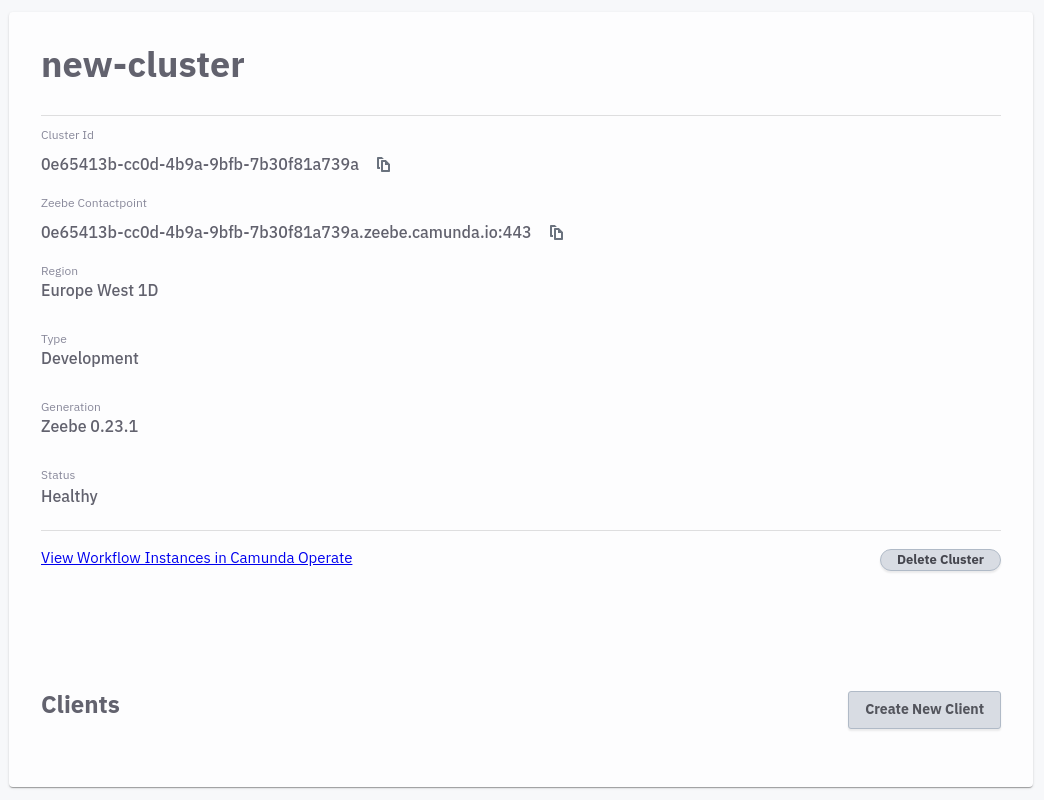
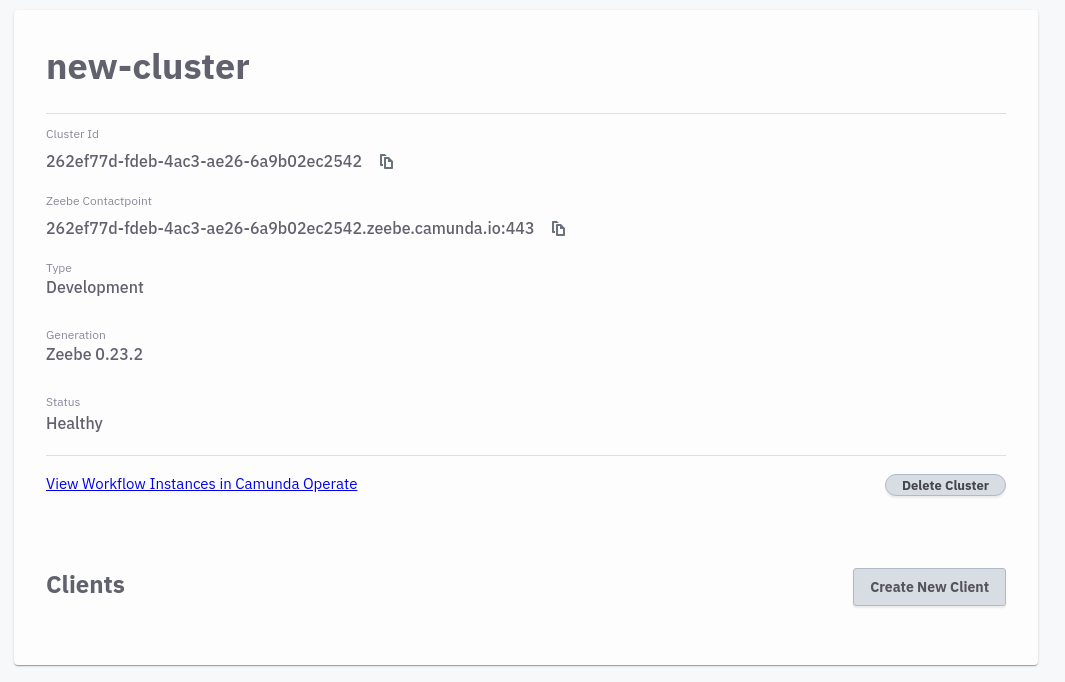
Updated screen shots, removed last traces of camunda cloud http worker (#32)
* removed last traces of http-worker

* new create client dialog

* removed region, new buttons

diff --git a/docs/gettingstarted_camunda-cloud-console.md b/docs/gettingstarted_camunda-cloud-console.md
@@ -9,11 +9,10 @@ Zeebe clusters can be created and operated via the cloud console. For each Zeebe
 
 * [Zeebe](./zeebecluster_zeebe.md)
 * [Operate](./zeebecluster_operate.md)
-* [HTTP Worker](./zeebecluster_embedded-http-worker.md)
 
 The products are always delivered in the lastest available stable version. The Zeebe version can be viewed in the cluster details.
 
-The provisioning of a Zeebe cluster takes about two minutes. As soon as a Zeebe cluster is operational, its state jumps from *Unhealthy* to *Healthy*.
+The provisioning of a Zeebe cluster takes about two minutes. As soon as a Zeebe cluster is operational, its state jumps from *Creating* to *Healthy*.
 
 To interact with Zeebe, an application must authenticate itself via OAuth. A [client](./zeebecluster_clients.md) must be created in advance for this purpose.
 
